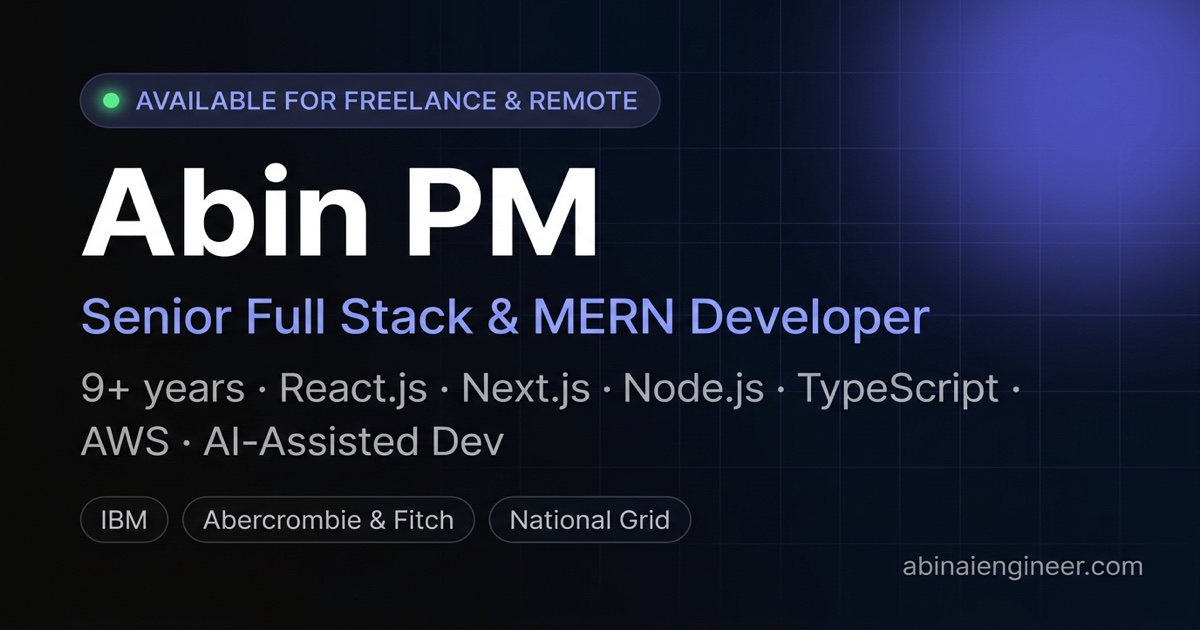
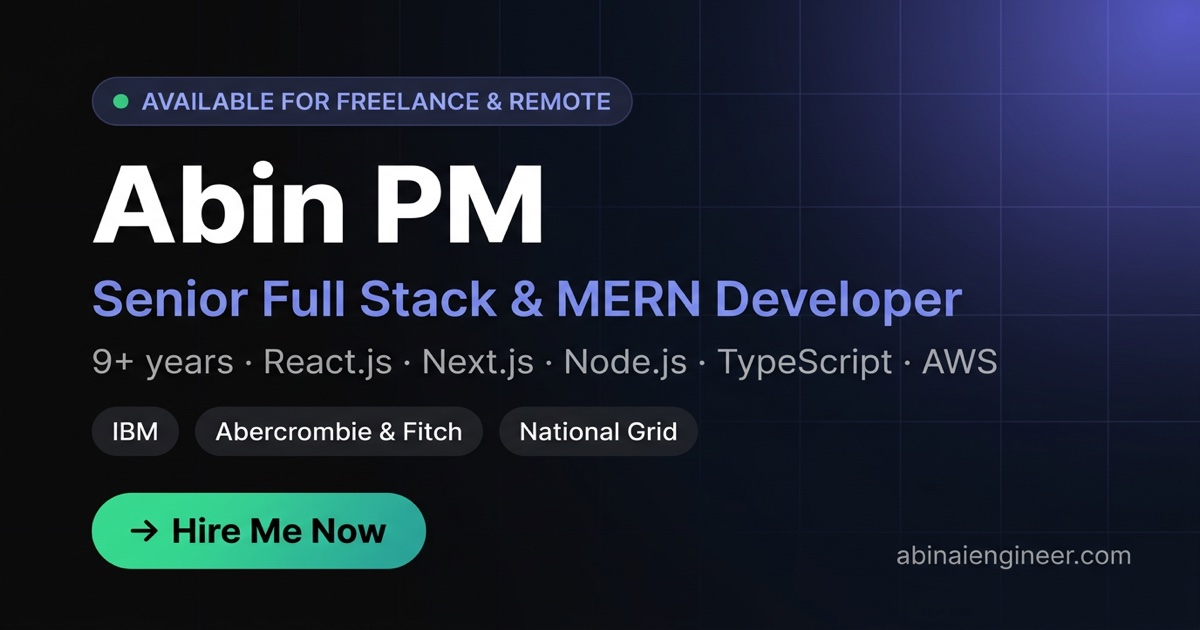
fix(og): add CTA button to OG image, shorten description to 155 chars
- Regenerate og-image.jpg with '→ Hire Me Now' CTA button (green pill)
- Shorten openGraph description from 161 → 155 chars (within 110-160 optimal)
- Image: 1200x630px, 130KB JPEG — all social platforms compatible

Made-with: Cursor

diff --git a/lib/metadata.ts b/lib/metadata.ts
@@ -30,7 +30,7 @@ export const defaultMetadata: Metadata = {
     url: SITE_URL,
     title: 'Hire Abin PM | React Developer & AI-Native Engineer India',
     description:
-      '9+ years enterprise full stack + AI-accelerated development with Cursor AI, GitHub Copilot & Claude. IBM, Abercrombie & Fitch, National Grid. Freelance & remote.',
+      '9+ years enterprise full stack + AI-accelerated dev with Cursor AI, GitHub Copilot & Claude. IBM, Abercrombie & Fitch, National Grid. Hire me →',
     images: [{ url: `${SITE_URL}/og-image.jpg`, width: 1200, height: 630, alt: 'Abin PM — Senior Full Stack Developer' }],
   },
   twitter: {
